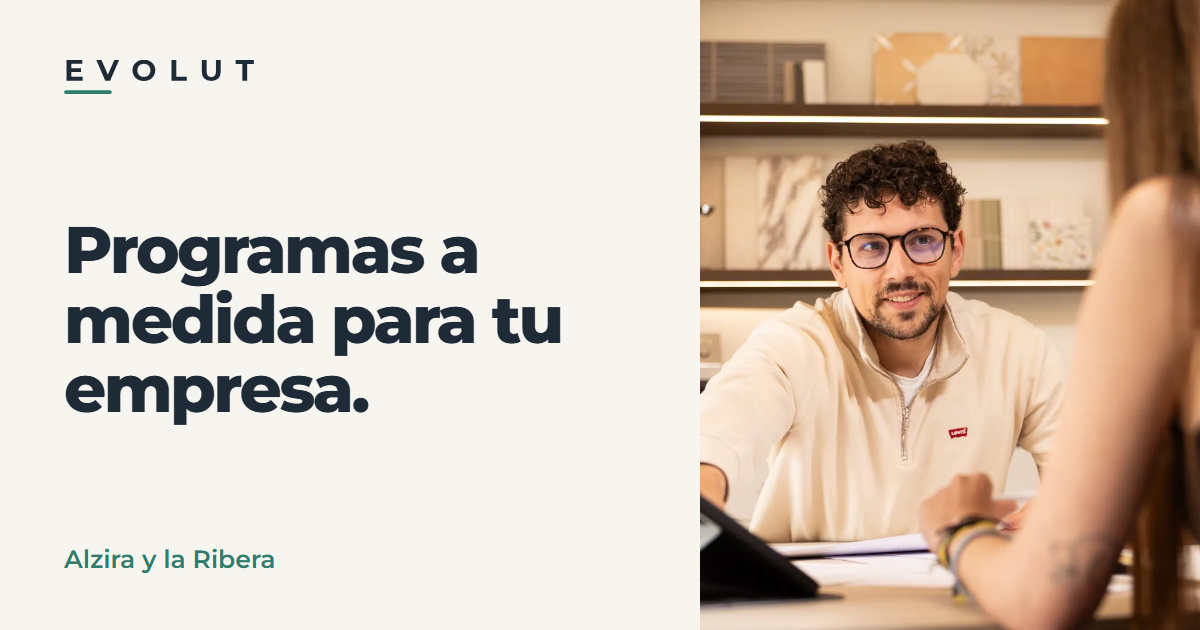
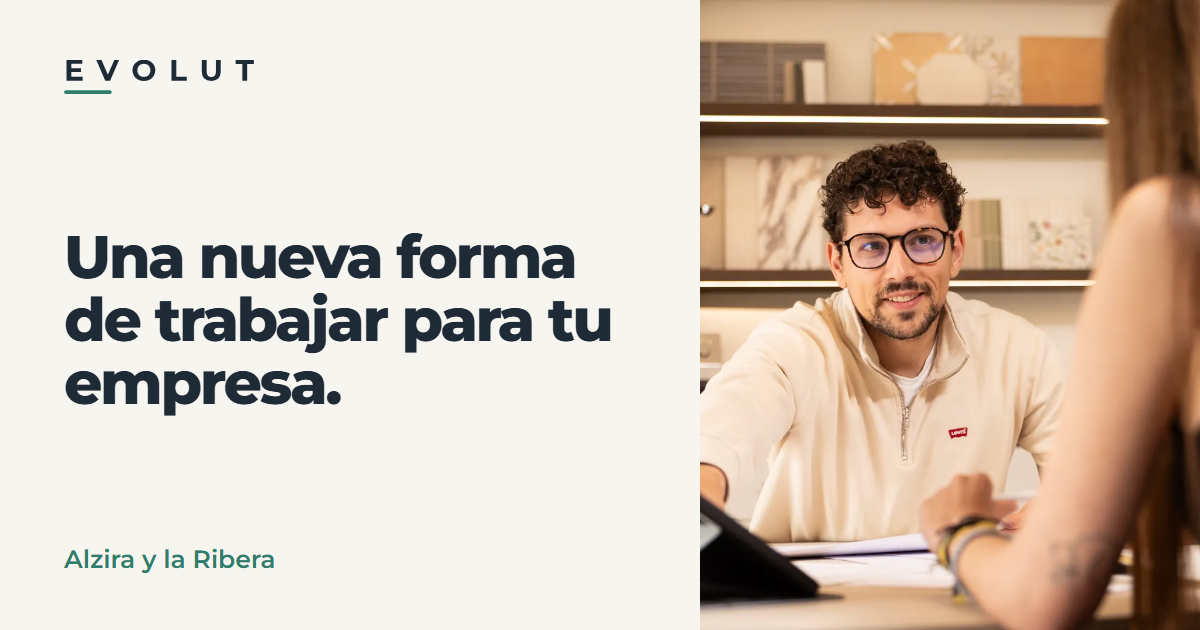
Web: Sistema Evolut como una nueva forma de trabajar (auditoría, actualización y formación)

Changed region(s): [[0.0617, 0.3619, 0.5242, 0.6937]]

diff --git a/index.html b/index.html
@@ -3,8 +3,8 @@
 <head>
 <meta charset="utf-8">
 <meta name="viewport" content="width=device-width, initial-scale=1, viewport-fit=cover">
-<title>Sistema Evolut · Programas a medida con IA en Alzira y la Ribera</title>
-<meta name="description" content="Programas a medida con IA para empresas y autónomos de Alzira y la Ribera. Hechos contigo, en tu empresa, en 2 o 3 tardes. Sin cuotas. Primera visita gratis.">
+<title>Sistema Evolut · Una nueva forma de trabajar para tu empresa, en Alzira y la Ribera</title>
+<meta name="description" content="Auditoría de tu documentación, actualización del software y formación en tu programa de gestión con IA. Para empresas y autónomos de Alzira y la Ribera. Sin cuotas. Primera visita gratis.">
 <link rel="canonical" href="https://sistemaevolut.com/">
 <meta name="theme-color" content="#1F2A37">
 
@@ -12,12 +12,12 @@
 <meta property="og:locale" content="es_ES">
 <meta property="og:site_name" content="Sistema Evolut">
 <meta property="og:url" content="https://sistemaevolut.com/">
-<meta property="og:title" content="Sistema Evolut · Programas a medida para tu empresa">
-<meta property="og:description" content="Hechos contigo, en tu empresa, en 2 o 3 tardes. Sin cuotas. Alzira y la Ribera.">
+<meta property="og:title" content="Sistema Evolut · Una nueva forma de trabajar para tu empresa">
+<meta property="og:description" content="Auditoría, actualización del software y formación en tu programa de gestión con IA. Alzira y la Ribera.">
 <meta property="og:image" content="https://sistemaevolut.com/img/compartir.png">
 <meta property="og:image:width" content="1200">
 <meta property="og:image:height" content="630">
-<meta property="og:image:alt" content="EVOLUT · Programas a medida para tu empresa">
+<meta property="og:image:alt" content="EVOLUT · Una nueva forma de trabajar para tu empresa">
 <meta name="twitter:card" content="summary_large_image">
 
 <link rel="icon" href="/favicon.ico" sizes="any">
@@ -36,7 +36,7 @@
   "name": "Sistema Evolut",
   "alternateName": "Evolut",
   "slogan": "La pieza que le faltaba a tu empresa",
-  "description": "Programas a medida con IA para empresas y autónomos de Alzira y la Ribera. Se construyen con el cliente delante, en su empresa, en 2 o 3 tardes. Sin cuotas. Primera visita gratuita.",
+  "description": "Implantamos una forma de trabajar en empresas y autónomos de Alzira y la Ribera: auditoría de la documentación, actualización del software y construcción y formación en su programa de gestión con IA. Sin cuotas. Primera visita gratuita.",
   "url": "https://sistemaevolut.com/",
   "email": "info@sistemaevolut.com",
   "logo": "https://sistemaevolut.com/img/icono-512.png",
@@ -84,8 +84,8 @@
   <!-- Portada -->
   <section class="portada">
     <div class="portada-texto">
-      <h1>Programas a medida para tu empresa.</h1>
-      <p class="entrada">Hechos contigo, en tu empresa, en 2 o 3 tardes. Para empresas y autónomos de Alzira y la Ribera.</p>
+      <h1>Una nueva forma de trabajar para tu empresa.</h1>
+      <p class="entrada">No instalamos un programa y nos vamos: auditamos, actualizamos y te formamos, en tu empresa. Para empresas y autónomos de Alzira y la Ribera.</p>
       <p class="acciones">
         <a class="boton" href="mailto:info@sistemaevolut.com?subject=Primera%20visita">Pide tu primera visita</a>
         <span class="acciones-nota">Gratis y sin compromiso</span>
@@ -101,8 +101,8 @@
     <div class="ancho rejilla">
       <h2 class="etiqueta">Qué hacemos</h2>
       <div class="contenido">
-        <p class="frase">Un solo programa para todo lo que hoy llevas por separado.</p>
-        <p class="texto">Juntamos lo que tienes en Excel, Word, el correo y papel. Lo que se repite cada semana se hace solo, y al programa le pides las cosas con tus palabras.</p>
+        <p class="frase">Tres cosas, en tu empresa y en persona.</p>
+        <p class="texto">Auditamos cómo está tu documentación y cómo debería quedar para que la información fluya de la mejor manera. Actualizamos tu software. Y construimos contigo tu programa de gestión con IA, formándote para que aprendas a modificarlo.</p>
       </div>
     </div>
   </section>
@@ -160,9 +160,9 @@
     <div class="ancho rejilla">
       <h2 class="etiqueta">Cómo lo hacemos</h2>
       <ol class="pasos contenido">
-        <li><b>Primera visita</b>Vamos a tu empresa y vemos cómo trabajas. Es gratis.</li>
-        <li><b>2 o 3 tardes</b>Construimos el programa contigo delante.</li>
-        <li><b>Es tuyo</b>Pasamos tus datos y te enseñamos a usarlo y cambiarlo.</li>
+        <li><b>Auditoría</b>Vemos de forma objetiva cómo está tu documentación y cómo debería quedar. La primera visita es gratis.</li>
+        <li><b>Actualización del software</b>Ponemos al día el servidor, el acceso online y todo lo necesario.</li>
+        <li><b>Construcción y formación</b>Creamos juntos tu programa de gestión con IA y te enseñamos a modificarlo, para que evolucione contigo.</li>
       </ol>
     </div>
   </section>
@@ -173,7 +173,7 @@
       <img src="/img/adrian-900.webp" alt="Adrian Ferrero, fundador de Sistema Evolut" width="900" height="986" loading="lazy">
       <div>
         <h2>¿Hablamos?</h2>
-        <p class="texto">Soy Adrian Ferrero, de Alzira. Hice Nora, el programa de Camelia Interiorismo, el estudio que llevo. Ahora hago el tuyo.</p>
+        <p class="texto">Soy Adrian Ferrero, de Alzira. Hice Nora, el programa de Camelia Interiorismo, el estudio que llevo. Ahora me siento contigo para que aprendas a hacer lo mismo en tu empresa.</p>
         <p class="acciones">
           <a class="boton boton-claro" href="mailto:info@sistemaevolut.com?subject=Primera%20visita">Pide tu primera visita</a>
         </p>
